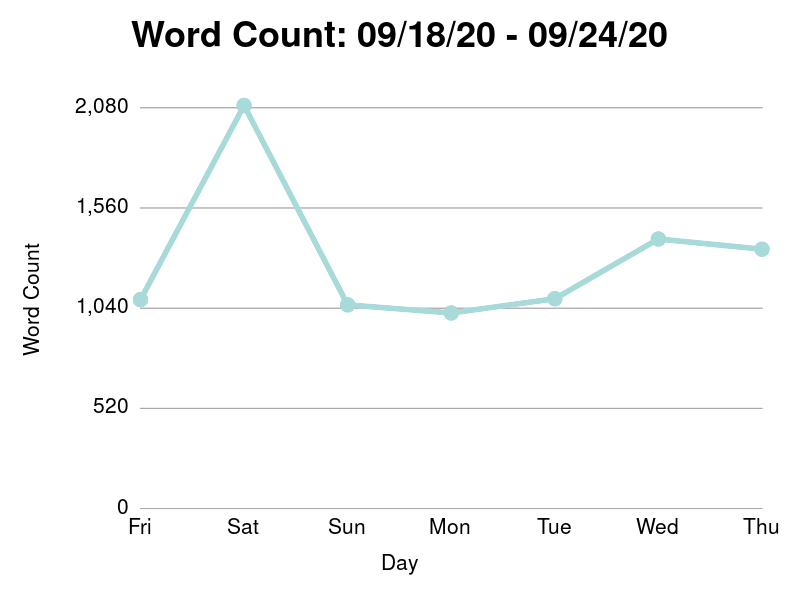
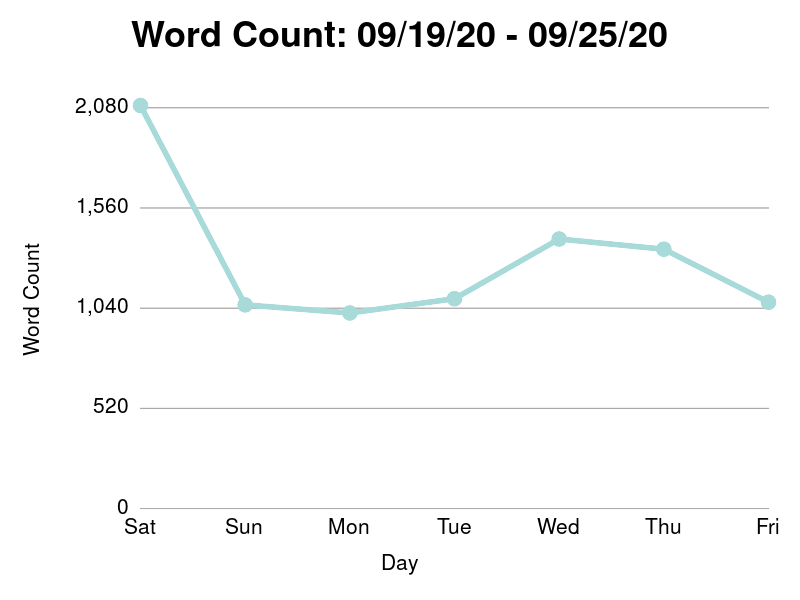
POST

diff --git a/entries/2020-09-25.md b/entries/2020-09-25.md
@@ -1,0 +1,130 @@
+---
+title: playing in mud, naps, and beef stew
+---
+
+Dear Journal,
+
+Good morning, everyone!  Happy Friday.  Man, am I excited for the
+weekend.  Is it just me, or has this week just been never ending?  It
+feels like every hour of work has absolutely dragged on to the fullest
+extent.  I'm feeling squeezed.  I'm feeling tired.  But I'm also
+feeling relieved.  Happy Friday everyone.
+
+This morning, my time management could have been more on point.  I got
+an early start to the day and by 7 AM I took a seat at the computer
+with a fresh cup of coffee.  Since the morning coding went so well
+yesterday, I thought I'd give it another whirl.  Well, if writing code
+in the morning were playing with fire, than that fire got a little out
+of control and lapped up a straight hour.  Additionally, I forgot to
+check my calendar and I just noticed that I have a meeting exactly 54
+minutes from now.  So here I am, not even showered, still in my
+bathrobe with less than an hour to crank out 1000 words and I haven't
+even brushed my teeth yet.  Usually I take a few minutes to lay out
+some notes for the entry, but this morning we're going to have to go
+old school.  Just me, an empty emacs buffer, and a big cup of coffee.
+
+_Sip_.  I had a good day yesterday.  It was a long day, but
+fulfilling.  The incident from two days ago took a toll on the rest of
+my tasks for this week, and as a result I had some catching up to do.
+The daily vulnerability patcher that runs on our build server spewed
+out four more tickets the night before at 3 AM.  Our team's slack
+channel had several questions and requests waiting in the queue.  I
+had at least three JIRA tickets assigned to my name and in progress.
+I had a lot to do, so I hit the ground running and didn't emerge from
+my room until it was lunch time, then again until it was five o'clock.
+
+While I was 'heads down at the grindstone', Rodney and Marissa were
+having fun outside with their outdoor project.  This week, they're
+redoing the rock pavers in the back yard by our tree to make more room
+for a Marissa's agility gear.  All week, they've been filling a
+wheelbarrow with rocks, rinsing them with the hose, and moving them to
+other parts of the yard, as well as starting a little pile of extras
+to take to the quarry.
+
+I peeked my head out my bedroom window to see Marissa hard at work,
+and Rodney covered in mud.
+
+"You should have seen him," said Marissa.  "He was pretending like he
+had to spin the _Wheel Unfortunate_, from _Dude Perfect_," said
+Marissa.  "He'd yell 'OK NED FORRESTER, I HAVE TO LAY IN MUD.'"  All
+references that I don't expect to land unless, like us, you are a
+loyal Dude Perfect YouTube subscriber.
+
+After spending the whole afternoon working outside (and playing in
+mud), Rodney ran into my room completely naked, his feet, fingers,
+face, and teeth still caked with earth.  Still wet from the hose, he
+was shivering.
+
+"Dada, I got dirty outside," he said.  I pivoted in my office chair
+and started laughing.  "I was playing in MUD," he continued through
+chattering teeth.
+
+Before I could respond, Rodney ran out of my room, leaving little
+muddy footprints behind him in our bedroom.
+
+"Want to start a bet for how long he's going to sleep?" I joked to
+Marissa.
+
+Both he and Marissa took a well-earned nap.  By the time I shut my
+laptop and gave up on the work day, the shades were drawn, and the
+house was so quiet you would've thought it was the middle of the
+night.  Leaving everything just as tranquil as I found it, I sneaked
+through our sleeping house and slipped into the kitchen to start on
+dinner.
+
+Yesterday evening's dinner was _ragout_ - beef stew.  Having learned
+from my mistakes in the past, I actually had enough beef and potatoes
+this time to fill the entire pot.  And after working outside all day,
+I anticipated Rodney and Marissa would polish off more than usual.
+
+I jumped up on a dining room chair to preemptively remove the smoke
+detector outside our kitchen.  I toasted some floor, cut a chuck roast
+into _stukjes_ and seared them in my Dutch oven.  Onions, celery,
+carrots, and a squirt of tomato paste, and we were off to the races.
+Shutting off the oven timer seconds before it beeped, I concluded my
+silent dinner preparation.
+
+"Five minute warning," I said, leaning into Marissa's ear.  I trudged
+upstairs to get Rodney.  He was so tired, he fell asleep face down
+with his bedroom light still on.  Legos, books, and k'nex strewn out
+on his floor in front of his door were the evidence he tried to make
+the most of his alone time and stay awake.  He has so much energy, I
+can't even imagine him getting tired and voluntarily crawling into
+bed.
+
+"I feel so spoiled," said Marissa.  "A long nap, then I just get to
+immediately eat beef stew."
+
+"You guys worked hard today," I replied.  "And to be honest, it was
+nice cooking with such a quiet house.  Even the dogs were sleeping."
+
+After dinner, Marissa returned the favor, and offered to help Rodney
+finish his food while I got some couch time.  Much like Rodney with
+his toys, I tried to make the most of my free time by watching some
+TV.  But tiredness got the best of me, and I too sailed away to sleep
+on the couch.
+
+I really need to take more naps.  A quality, well-timed nap is nothing
+short of transformitive.
+
+"Did you guys have fun outside?" I asked Rodney while putting Rodney
+to bed.
+
+"Yeah," he said sleepily.  "I played in the mud!"
+
+I ran through my usual list of quiz questions, covering what letters
+he learned, what fun things he did that day.
+
+"And what did you eat today?" I asked.
+
+"Steak," said Rodney.  "In... something like...".
+
+Rodney stared into his ceiling searching for words.  I could feel him
+trying to visualize the brown broth, sifting through his own childish
+dictionary.
+
+"Steak in _mud_ I think," he said.
+
+"Steak in mud?" I laughed.  "Dude, you just got mud on the brain."
+
+Thanks for stopping by today.  Have a wonderful day today.
